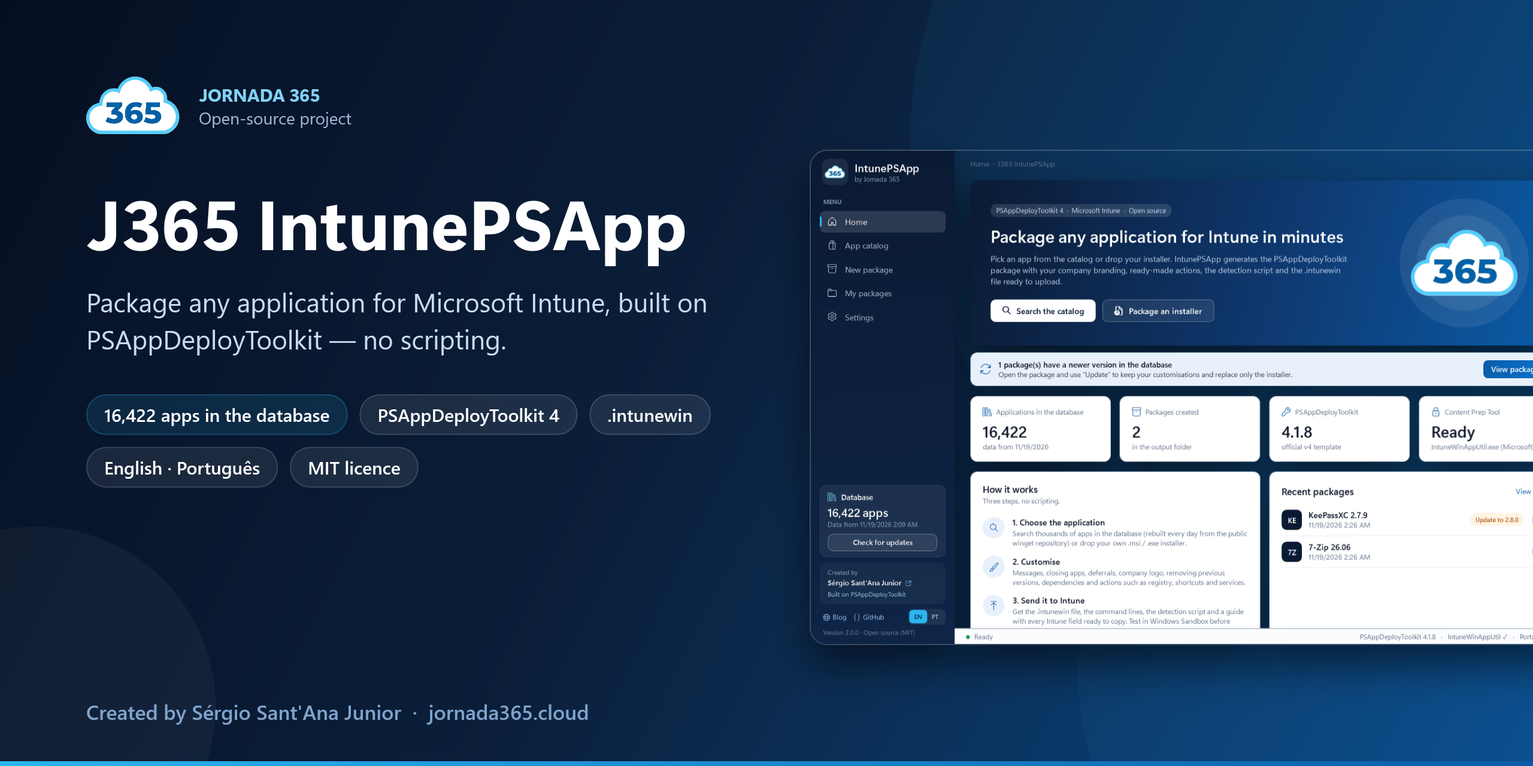
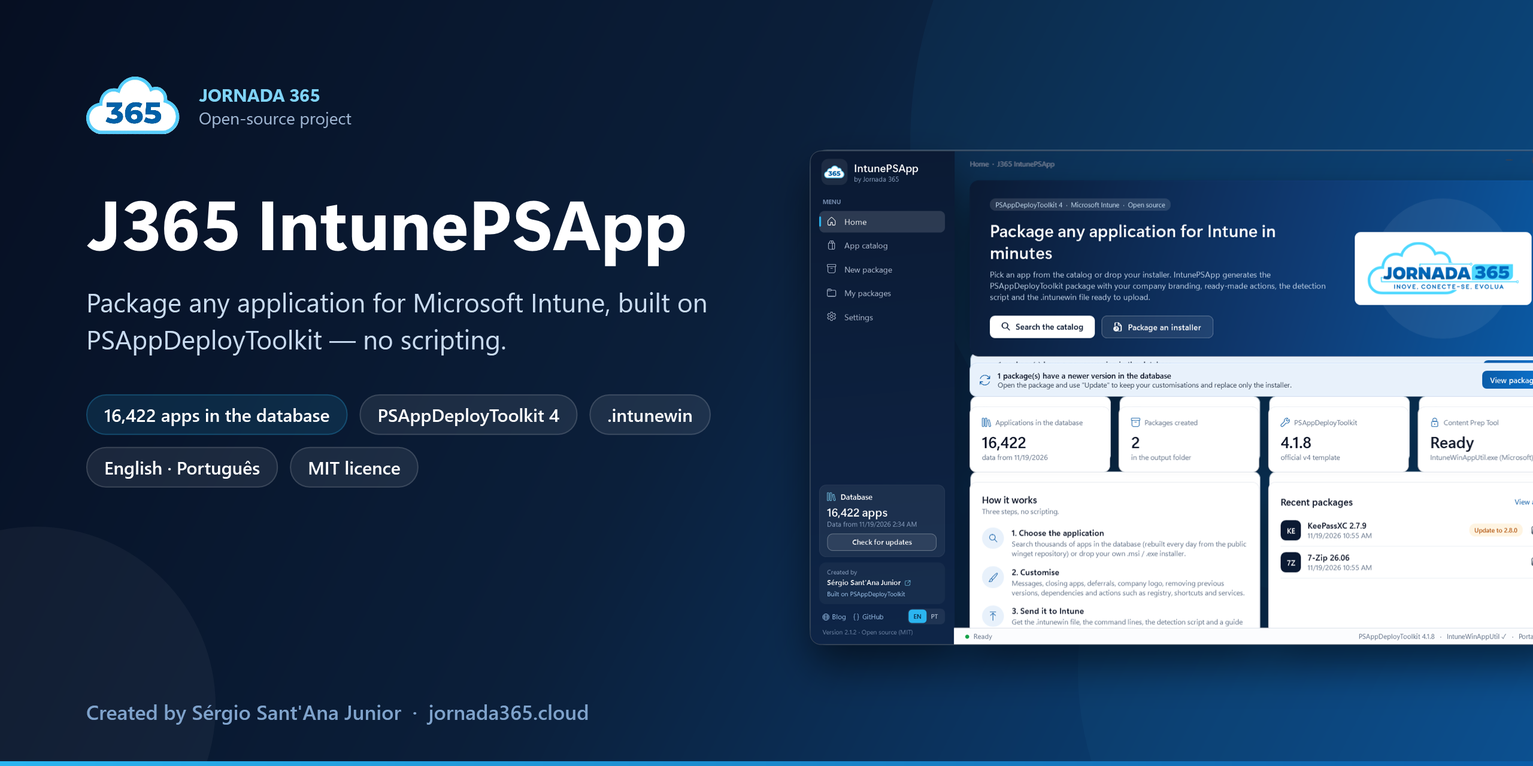
J365 IntunePSApp 2.1.3
- Uninstall step: lists other applications of the database the program name
  also matches (their registered names, or the package name), which would be
  uninstalled and would satisfy detection where installed. Translations of
  the same package are not listed.
- Built-in packager: working copies in the application's temporary folder
  (not next to the package, often a OneDrive folder), cancellation checked
  while zipping and encrypting, zip entry names with "/".
- Downloads: no .part file left after a final failure or a cancellation;
  60-second limit to receive the response headers.
- Remove desktop shortcut / Delete file: -LiteralPath unless the name uses
  * or ?, so names with brackets work.
- README covers show the current application.
- 160 unit tests (were 157).

diff --git a/src/IntunePSApp/Views/EditorView.xaml b/src/IntunePSApp/Views/EditorView.xaml
@@ -397,6 +397,10 @@
                   <Button Grid.Column="1" Style="{StaticResource SecondaryButton}" Content="{l:T Ed_ShowMatches}" Margin="8,0,0,0" Click="ShowInstalled_Click"/>
                 </Grid>
                 <TextBlock Style="{StaticResource Hint}" Text="{l:T Ed_PatternHint}"/>
+                <!-- Other applications of the database the pattern also matches (they would be removed and would satisfy detection) -->
+                <Border x:Name="PatternOthers" Background="{StaticResource WarningSoft}" CornerRadius="8" Padding="12,8" Margin="0,8,0,0" Visibility="Collapsed">
+                  <TextBlock x:Name="PatternOthersText" TextWrapping="Wrap" Foreground="{StaticResource Warning}" FontSize="12.5"/>
+                </Border>
                 <ListView x:Name="InstalledList" Margin="0,12,0,0" MaxHeight="200" Visibility="Collapsed">
                   <ListView.View>
                     <GridView>

diff --git a/src/IntunePSApp/Core/IntuneWinBuilder.cs b/src/IntunePSApp/Core/IntuneWinBuilder.cs
@@ -57,13 +57,15 @@ namespace J365.IntunePSApp.Core
                 finally { try { Directory.Delete(tmpOut, true); } catch { } }
             }
             Log.Info(T("Log_NativeBuilding"));
-            await Task.Run(() => BuildNative(sourceFolder, SetupFile, outputFile), ct);
+            await Task.Run(() => BuildNative(sourceFolder, SetupFile, outputFile, ct), ct);
             return T("Tool_Native");
         }
 
-        public static void BuildNative(string sourceFolder, string setupFile, string outputFile)
+        public static void BuildNative(string sourceFolder, string setupFile, string outputFile, CancellationToken ct = default)
         {
-            string work = Path.Combine(Path.GetDirectoryName(outputFile), "_intunewin_" + Guid.NewGuid().ToString("N"));
+            // The two working copies (zip and encrypted zip) go to the application's temporary folder, not next to the
+            // package: the output folder is often synchronised (OneDrive) and a cancelled build must not leave gigabytes there.
+            string work = Path.Combine(AppPaths.Temp, "_intunewin_" + Guid.NewGuid().ToString("N"));
             Directory.CreateDirectory(work);
             try
             {
@@ -74,11 +76,16 @@ namespace J365.IntunePSApp.Core
                 using (var fs = new FileStream(plainZip, FileMode.CreateNew))
                 using (var zip = new ZipArchive(fs, ZipArchiveMode.Create))
                 {
+                    // Entry names use "/" like Microsoft's tool (the zip format's separator).
                     foreach (var f in Directory.GetFiles(src, "*", SearchOption.AllDirectories))
-                        zip.CreateEntryFromFile(f, f.Substring(src.Length + 1), CompressionLevel.Optimal);
+                    {
+                        ct.ThrowIfCancellationRequested();
+                        zip.CreateEntryFromFile(f, f.Substring(src.Length + 1).Replace('\\', '/'), CompressionLevel.Optimal);
+                    }
                     foreach (var d in Directory.GetDirectories(src, "*", SearchOption.AllDirectories))
-                        if (!Directory.EnumerateFileSystemEntries(d).Any()) zip.CreateEntry(d.Substring(src.Length + 1) + "\\");
+                        if (!Directory.EnumerateFileSystemEntries(d).Any()) zip.CreateEntry(d.Substring(src.Length + 1).Replace('\\', '/') + "/");
                 }
+                ct.ThrowIfCancellationRequested();
 
                 byte[] encKey = RandomNumberGenerator.GetBytes(32), macKey = RandomNumberGenerator.GetBytes(32), iv = RandomNumberGenerator.GetBytes(16);
                 byte[] digest; long plainSize;
@@ -99,6 +106,7 @@ namespace J365.IntunePSApp.Core
                         var obuf = new byte[chunk + 32];
                         while (true)
                         {
+                            ct.ThrowIfCancellationRequested();
                             int n = 0, r;
                             while (n < chunk && (r = fin.Read(buf, n, chunk - n)) > 0) n += r;
                             if (fin.Position < fin.Length)

diff --git a/src/IntunePSApp/Core/ActionCatalog.cs b/src/IntunePSApp/Core/ActionCatalog.cs
@@ -208,6 +208,12 @@ namespace J365.IntunePSApp.Core
         private static string Exp(string s) => $"([Environment]::ExpandEnvironmentVariables({L(s)}))";
         private static string Support(string name) => $"(Join-Path -Path $adtSession.DirSupportFiles -ChildPath {L(name)})";
 
+        /// <summary>
+        /// "-Path" when the text uses * or ? on purpose, otherwise "-LiteralPath": with -Path a name such as
+        /// "App [x64].lnk" is read as a wildcard and matches nothing.
+        /// </summary>
+        private static string PathParameter(string text) => (text ?? "").IndexOfAny(new[] { '*', '?' }) >= 0 ? "-Path" : "-LiteralPath";
+
         private static string Lnk(string name)
         {
             name = (name ?? "").Trim();
@@ -248,7 +254,7 @@ namespace J365.IntunePSApp.Core
                         break;
                     }
                 case "RemoveDesktopShortcut":
-                    body.Add($"Remove-ADTFile -Path (Join-Path -Path ([Environment]::GetFolderPath('CommonDesktopDirectory')) -ChildPath {L(Lnk(a.P("Name")))})");
+                    body.Add($"Remove-ADTFile {PathParameter(a.P("Name"))} (Join-Path -Path ([Environment]::GetFolderPath('CommonDesktopDirectory')) -ChildPath {L(Lnk(a.P("Name")))})");
                     break;
                 case "RemoveStartMenuShortcut":
                     body.Add($"Get-ChildItem -LiteralPath ([Environment]::GetFolderPath('CommonPrograms')) -Filter {L(Lnk(a.P("Name")))} -Recurse -ErrorAction SilentlyContinue | Remove-Item -Force -ErrorAction SilentlyContinue");
@@ -271,7 +277,7 @@ namespace J365.IntunePSApp.Core
                     body.Add($"Copy-ADTFileToUserProfiles -Path {Support(a.P("Source"))} -Destination {L(a.P("Destination"))} -BasePath {L(string.IsNullOrEmpty(a.P("BasePath")) ? "AppData" : a.P("BasePath"))} -Recurse");
                     break;
                 case "DeleteFile":
-                    body.Add($"Remove-ADTFile -Path {Exp(a.P("Path"))}");
+                    body.Add($"Remove-ADTFile {PathParameter(a.P("Path"))} {Exp(a.P("Path"))}");
                     break;
                 case "DeleteFolder":
                     body.Add($"$j365Folder = {Exp(a.P("Path"))}");

diff --git a/src/IntunePSApp/Core/CatalogService.cs b/src/IntunePSApp/Core/CatalogService.cs
@@ -242,6 +242,31 @@ namespace J365.IntunePSApp.Core
             return 6;
         }
 
+        /// <summary>
+        /// Other applications of the database whose name (or the name they register in "Installed apps") the pattern also
+        /// matches: "KeePass*" finds KeePassXC. On a device where one of them is installed it would be uninstalled before
+        /// the installation, and it would satisfy the detection rule. Translations of the same package are not listed.
+        /// </summary>
+        public List<string> OthersMatching(string pattern, string catalogId, int max = 5)
+        {
+            var found = new List<string>();
+            if (!IsLoaded || string.IsNullOrWhiteSpace(pattern) || Regex.Replace(pattern, @"[\*\?\s]", "").Length < 2) return found;
+            var rx = InstallerAnalyzer.WildcardToRegex(pattern.Trim());
+            string family = string.IsNullOrEmpty(catalogId) ? null : catalogId + ".";
+            foreach (var a in Apps)
+            {
+                if (string.Equals(a.Id, catalogId, StringComparison.OrdinalIgnoreCase)) continue;
+                // Mozilla.Firefox.pt-BR is the same product as Mozilla.Firefox.
+                if (family != null && a.Id.StartsWith(family, StringComparison.OrdinalIgnoreCase) && Regex.IsMatch(a.Id.Substring(family.Length), @"^[a-z]{2}(-[A-Za-z]{2,4})?$")) continue;
+                var names = (a.Installers ?? new List<CatalogInstaller>()).SelectMany(i => i.Arp ?? new List<ArpEntry>()).Select(e => e.DisplayName).Where(n => !string.IsNullOrEmpty(n)).ToList();
+                if (names.Count == 0) names.Add(a.Name);
+                if (!names.Any(rx.IsMatch)) continue;
+                if (!found.Contains(a.Name, StringComparer.OrdinalIgnoreCase)) found.Add(a.Name);
+                if (found.Count >= max) break;
+            }
+            return found;
+        }
+
         public List<CatalogApp> FindByName(string name, string publisher, int max = 3)
         {
             var n = Names.CleanAppName(name ?? "").ToLowerInvariant();

diff --git a/src/IntunePSApp/Core/Infrastructure.cs b/src/IntunePSApp/Core/Infrastructure.cs
@@ -268,6 +268,12 @@ namespace J365.IntunePSApp.Core
                     Log.Warn(T("Log_DownloadRetry", attempt, attempts - 1, ex.Message));
                     await Task.Delay(TimeSpan.FromSeconds(2 * attempt), ct);
                 }
+                catch
+                {
+                    // Last attempt failed or the user cancelled: no half-downloaded file is left behind.
+                    try { File.Delete(tmp); } catch { }
+                    throw;
+                }
             }
             if (!string.IsNullOrWhiteSpace(expectedSha256))
             {
@@ -283,7 +289,15 @@ namespace J365.IntunePSApp.Core
 
         private static async Task DownloadOnceAsync(string url, string tmp, IProgress<(long read, long? total)> progress, CancellationToken ct)
         {
-            using var resp = await Client.GetAsync(url, HttpCompletionOption.ResponseHeadersRead, ct);
+            // A server that never answers fails after 60 seconds instead of hanging (the body has its own stall limit below).
+            HttpResponseMessage resp;
+            using (var headers = CancellationTokenSource.CreateLinkedTokenSource(ct))
+            {
+                headers.CancelAfter(TimeSpan.FromSeconds(60));
+                try { resp = await Client.GetAsync(url, HttpCompletionOption.ResponseHeadersRead, headers.Token); }
+                catch (OperationCanceledException) when (!ct.IsCancellationRequested) { throw new TimeoutException(T("Err_DownloadStalled")); }
+            }
+            using var response = resp;
             resp.EnsureSuccessStatusCode();
             long? total = resp.Content.Headers.ContentLength;
             using var src = await resp.Content.ReadAsStreamAsync(ct);

diff --git a/tests/IntunePSApp.Tests/ScriptTests.cs b/tests/IntunePSApp.Tests/ScriptTests.cs
@@ -343,6 +343,16 @@ namespace J365.IntunePSApp.Tests
         }
 
         [Fact]
+        public void File_names_with_brackets_are_literal_unless_a_wildcard_is_intended()
+        {
+            string Code(string type, string key, string value) => string.Join("\n", ActionCatalog.Generate(new PackageAction { Type = type, ContinueOnError = false, Params = { [key] = value } }));
+            Assert.Contains("Remove-ADTFile -LiteralPath", Code("RemoveDesktopShortcut", "Name", "App [x64]"));
+            Assert.Contains("Remove-ADTFile -Path", Code("RemoveDesktopShortcut", "Name", "App*"));
+            Assert.Contains("Remove-ADTFile -LiteralPath ([Environment]::ExpandEnvironmentVariables('%ProgramData%\\App [x64]\\a.lic'))", Code("DeleteFile", "Path", @"%ProgramData%\App [x64]\a.lic"));
+            Assert.Contains("Remove-ADTFile -Path", Code("DeleteFile", "Path", @"%ProgramData%\App\*.tmp"));
+        }
+
+        [Fact]
         public void User_code_is_written_as_typed_and_a_continued_failure_does_not_fail_the_deployment()
         {
             var a = new PackageAction { Type = "RunPowerShell", ContinueOnError = true, Params = { ["Code"] = "$text = @'\nline one   \n  line two\n'@\nWrite-ADTLogEntry -Message $text" } };

diff --git a/tests/IntunePSApp.Tests/PackagingTests.cs b/tests/IntunePSApp.Tests/PackagingTests.cs
@@ -46,6 +46,21 @@ namespace J365.IntunePSApp.Tests
         }
 
         [Fact]
+        public void A_cancelled_native_build_leaves_nothing_behind()
+        {
+            using var tmp = new TempFolder();
+            string src = SampleSource(tmp), output = Path.Combine(tmp.Path, "out", "app.intunewin");
+            Directory.CreateDirectory(Path.GetDirectoryName(output));
+            var before = Directory.GetDirectories(AppPaths.Temp, "_intunewin_*").Length;
+            using var cts = new System.Threading.CancellationTokenSource();
+            cts.Cancel();
+            Assert.ThrowsAny<OperationCanceledException>(() => IntuneWinBuilder.BuildNative(src, IntuneWinBuilder.SetupFile, output, cts.Token));
+            Assert.False(File.Exists(output));
+            Assert.Empty(Directory.GetFileSystemEntries(Path.GetDirectoryName(output)));               // nothing in the output folder
+            Assert.Equal(before, Directory.GetDirectories(AppPaths.Temp, "_intunewin_*").Length);      // working copies removed
+        }
+
+        [Fact]
         public void Validate_detects_a_tampered_package()
         {
             using var tmp = new TempFolder();

diff --git a/src/IntunePSApp/Views/EditorView.xaml.cs b/src/IntunePSApp/Views/EditorView.xaml.cs
@@ -507,8 +507,11 @@ namespace J365.IntunePSApp.Views
         private void UpdateExistingFlow()
         {
             if (ExistingFlow == null) return;
-            if (ChkRemovePrev.IsChecked != true) { ExistingFlow.Text = T("Ed_ExistingFlowOff"); return; }
             string pattern = TxtPattern.Text.Trim();
+            var others = CatalogService.Instance.OthersMatching(pattern, _s?.CatalogId);
+            PatternOthers.Visibility = others.Count > 0 ? Visibility.Visible : Visibility.Collapsed;
+            PatternOthersText.Text = others.Count > 0 ? T("Ed_PatternOthers", pattern, string.Join(", ", others)) : "";
+            if (ChkRemovePrev.IsChecked != true) { ExistingFlow.Text = T("Ed_ExistingFlowOff"); return; }
             ExistingFlow.Text = T("Ed_ExistingFlowOn") + (pattern.Length > 0 ? " " + T("Ed_ExistingFlowName", pattern) : "");
         }
 

diff --git a/tests/IntunePSApp.Tests/CoreTests.cs b/tests/IntunePSApp.Tests/CoreTests.cs
@@ -183,6 +183,15 @@ namespace J365.IntunePSApp.Tests
         }
 
         [Fact]
+        public void Look_alike_applications_of_the_database_are_found_for_a_name_pattern()
+        {
+            // The test database is empty: nothing is reported and nothing breaks.
+            Assert.Empty(CatalogService.Instance.OthersMatching("KeePass*", "DominikReichl.KeePass"));
+            Assert.Empty(CatalogService.Instance.OthersMatching("", null));
+            Assert.Empty(CatalogService.Instance.OthersMatching("*", null)); // too generic to mean anything
+        }
+
+        [Fact]
         public void An_installer_the_target_cannot_run_is_never_picked()
         {
             var armFirst = new CatalogApp { Installers = { new CatalogInstaller { Arch = "arm64", Type = "exe" }, new CatalogInstaller { Arch = "x64", Type = "exe" } } };

diff --git a/README.md b/README.md
@@ -182,10 +182,10 @@ Every release is built by GitHub Actions from the tagged commit and carries chec
 
 ```powershell
 # 1. Checksum: compare with SHA256SUMS.txt of the release
-Get-FileHash .\J365-IntunePSApp-2.1.2-win-x64.zip -Algorithm SHA256
+Get-FileHash .\J365-IntunePSApp-2.1.3-win-x64.zip -Algorithm SHA256
 
 # 2. Provenance: proves the file was built by this repository's workflow (GitHub CLI)
-gh attestation verify .\J365-IntunePSApp-2.1.2-win-x64.zip --repo sesantanajr/J365-IntunePSApp
+gh attestation verify .\J365-IntunePSApp-2.1.3-win-x64.zip --repo sesantanajr/J365-IntunePSApp
 ```
 
 What the application itself verifies: the database installers (SHA256 from the winget manifest), the PSAppDeployToolkit module (Authenticode signature), IntuneWinAppUtil (Microsoft signature, otherwise discarded) and every `.intunewin` it creates (HMAC and SHA256). See [SECURITY.md](SECURITY.md).
@@ -215,7 +215,7 @@ Application logs: `IntunePSApp-Data\logs` next to the executable (portable) or `
 
 ## What was tested (and what was not)
 
-- **Automated:** 157 unit tests run on every push (generated scripts are parsed by Windows PowerShell 5.1, `.intunewin` round trip, both languages, project migration, validations).
+- **Automated:** 160 unit tests run on every push (generated scripts are parsed by Windows PowerShell 5.1, `.intunewin` round trip, both languages, project migration, validations).
 - **End to end, by the author:** packages built from the interface and from the command line in both languages; a generated package executed for real with a test installer (install, repair, uninstall, 22 actions including dependency and `.reg` import); first-run setup on an empty folder; per-user install and uninstall; database generation.
 - **In Windows Sandbox (2.1):** the 7-Zip MSI package was installed by the test script in a real sandbox (exit code 0, detected, 31 s; the same installation took about 150 s before the Smart App Control fix), and run as SYSTEM three times in a row: install on a clean Windows, install again over the existing version (the log shows it being listed and uninstalled first) and uninstall (no longer detected). Not exercised: enabling the Windows feature from the application (it needs a computer without it) and the test of an `.exe` installer.
 - **For 2.1.2:** a package built with the new code was run as SYSTEM in Windows Sandbox (install, install over the existing version, uninstall; an action failing on purpose was logged and the deployment still returned 0; user code with a here-string ran). Icon extraction was checked with two real MSI files (one carrying an `.ico`, one an `.exe`). The publishing script was run end to end, in Windows PowerShell 5.1 and PowerShell 7, against a local stand-in for Entra ID, Microsoft Graph and Azure Storage that verified the uploaded content (MAC, IV, digest), the retries, the update of an existing app, the assignment and the removal of an incomplete app.
@@ -418,10 +418,10 @@ Cada versão é compilada pelo GitHub Actions a partir do commit marcado e traz 
 
 ```powershell
 # 1. Checksum: compare com o SHA256SUMS.txt da versão
-Get-FileHash .\J365-IntunePSApp-2.1.2-win-x64.zip -Algorithm SHA256
+Get-FileHash .\J365-IntunePSApp-2.1.3-win-x64.zip -Algorithm SHA256
 
 # 2. Procedência: prova que o arquivo foi compilado pelo workflow deste repositório (GitHub CLI)
-gh attestation verify .\J365-IntunePSApp-2.1.2-win-x64.zip --repo sesantanajr/J365-IntunePSApp
+gh attestation verify .\J365-IntunePSApp-2.1.3-win-x64.zip --repo sesantanajr/J365-IntunePSApp
 ```
 
 O que o próprio aplicativo verifica: os instaladores do banco de dados (SHA256 do manifesto do winget), o módulo do PSAppDeployToolkit (assinatura Authenticode), o IntuneWinAppUtil (assinatura da Microsoft, senão é descartado) e cada `.intunewin` criado (HMAC e SHA256). Veja [SECURITY.md](SECURITY.md).
@@ -451,7 +451,7 @@ Logs do aplicativo: `IntunePSApp-Data\logs` ao lado do executável (portátil) o
 
 ## O que foi testado (e o que não foi)
 
-- **Automatizado:** 157 testes unitários rodam a cada push (os scripts gerados são analisados pelo Windows PowerShell 5.1, ida e volta do `.intunewin`, os dois idiomas, migração de projetos, validações).
+- **Automatizado:** 160 testes unitários rodam a cada push (os scripts gerados são analisados pelo Windows PowerShell 5.1, ida e volta do `.intunewin`, os dois idiomas, migração de projetos, validações).
 - **De ponta a ponta, pelo autor:** pacotes gerados pela interface e pela linha de comando nos dois idiomas; um pacote gerado executado de verdade com um instalador de teste (instalação, reparo, desinstalação, 22 ações incluindo dependência e importação de `.reg`); preparação da primeira execução em uma pasta vazia; instalação e desinstalação por usuário; geração do banco de dados.
 - **No Windows Sandbox (2.1):** o pacote MSI do 7-Zip foi instalado pelo script de teste em um sandbox real (código de saída 0, detectado, 31 s; a mesma instalação levava cerca de 150 s antes da correção do Smart App Control) e executado como SYSTEM três vezes seguidas: instalação em um Windows limpo, instalação por cima da versão existente (o log mostra ela sendo listada e desinstalada antes) e desinstalação (não é mais detectado). Não exercitado: a ativação do recurso do Windows pelo aplicativo (exige um computador sem ele) e o teste de um instalador `.exe`.
 - **Para a 2.1.2:** um pacote gerado com o código novo foi executado como SYSTEM no Windows Sandbox (instalação, instalação por cima da versão existente, desinstalação; uma ação que falha de propósito foi registrada e a implantação ainda retornou 0; código do usuário com here-string rodou). A extração de ícone foi conferida com dois arquivos MSI reais (um com `.ico`, outro com `.exe`). O script de publicação foi executado de ponta a ponta, no Windows PowerShell 5.1 e no PowerShell 7, contra um substituto local do Entra ID, do Microsoft Graph e do Azure Storage que conferiu o conteúdo enviado (MAC, IV, hash), as repetições, a atualização de um app existente, a atribuição e a remoção de um app incompleto.

diff --git a/.github/RELEASE_NOTES.md b/.github/RELEASE_NOTES.md
@@ -1,8 +1,13 @@
-## J365 IntunePSApp 2.1.2
+## J365 IntunePSApp 2.1.3
 
 Package any Windows application for Microsoft Intune in minutes, with no scripting. Built on [PSAppDeployToolkit](https://psappdeploytoolkit.com). Created by [Sérgio Sant'Ana Junior](https://www.linkedin.com/in/sergiosantanacloud/) - [Jornada 365](https://jornada365.cloud).
 
-### Highlights
+### New in 2.1.3
+
+- The Uninstall step shows other applications of the database the program name also matches ("7-Zip*" also matches 7-Zip ZS), which would be uninstalled and would satisfy detection where installed.
+- The built-in packager no longer leaves working copies next to the package (OneDrive folders) and stops at once when cancelled; downloads no longer leave `.part` files or wait forever for a silent server; file names with brackets work in the shortcut and file actions.
+
+### Highlights of 2.1.2
 
 - **Publish to Intune, rewritten.** The script talks to Microsoft Graph directly: no PowerShell module to install. It detects an app with the same name (ask, stop, update or create another), can assign the new app, deletes an incomplete app when something fails and reports the outcome back to the application, with an *Open in Intune* link. The community module used before failed on Windows set to day-first dates (pt-BR, en-GB...) and reported a failed sign-in as success. Still labelled **preview**: tested end to end against a local stand-in for Entra ID, Graph and Azure Storage, not yet against a real tenant.
 - **Every package has an application icon** for Intune and the Company Portal, with nothing to download: the icon of the installer (now also from `.msi` files), a file you choose, or a tile with the initials.
@@ -26,9 +31,13 @@ The executable is not code-signed: Windows SmartScreen may ask for confirmation 
 
 ---
 
-## J365 IntunePSApp 2.1.2 (Português)
+## J365 IntunePSApp 2.1.3 (Português)
 
 Empacote qualquer aplicativo Windows para o Microsoft Intune em minutos, sem escrever scripts. Baseado no [PSAppDeployToolkit](https://psappdeploytoolkit.com). Criado por [Sérgio Sant'Ana Junior](https://www.linkedin.com/in/sergiosantanacloud/) - [Jornada 365](https://jornada365.cloud).
+
+**Novo na 2.1.3:** o passo Desinstalação mostra outros aplicativos do banco de dados que o nome do programa também encontra ("7-Zip*" também pega o 7-Zip ZS), que seriam desinstalados e contariam para a detecção onde estiverem instalados. O empacotador interno não deixa mais cópias de trabalho ao lado do pacote (pastas do OneDrive) e para na hora quando cancelado; downloads não deixam mais arquivos `.part` nem esperam para sempre por um servidor mudo; nomes de arquivo com colchetes funcionam nas ações de atalho e de arquivo.
+
+**Destaques da 2.1.2:**
 
 - **Publicação no Intune reescrita.** O script fala direto com o Microsoft Graph: nenhum módulo do PowerShell para instalar. Detecta um app com o mesmo nome (perguntar, parar, atualizar ou criar outro), pode atribuir o app novo, apaga o app incompleto quando algo falha e devolve o resultado ao aplicativo, com o link *Abrir no Intune*. O módulo da comunidade usado antes falhava em Windows com data no formato dia/mês (pt-BR) e mostrava login falho como sucesso. Continua marcado como **prévia**: testado de ponta a ponta contra um substituto local do Entra ID, do Graph e do Azure Storage, ainda não contra um locatário real.
 - **Todo pacote tem ícone do aplicativo** para o Intune e o Portal da Empresa, sem baixar nada: o ícone do instalador (agora também de arquivos `.msi`), um arquivo que você escolher ou um ícone com as iniciais.

diff --git a/CHANGELOG.md b/CHANGELOG.md
@@ -2,6 +2,22 @@
 
 All notable changes to J365 IntunePSApp. Versions follow [Semantic Versioning](https://semver.org).
 
+## 2.1.3 - 2026-11-19
+
+### Added
+
+- **Look-alike applications.** The Uninstall step shows which other applications of the database the program name also matches ("7-Zip*" also matches 7-Zip ZS; "KeePass*" would match KeePassXC). Where one of them is installed it would be uninstalled before the installation and would count for the detection rule.
+
+### Fixed
+
+- The built-in packager keeps its two working copies in the application's temporary folder instead of next to the package (often a synchronised OneDrive folder), stops as soon as the build is cancelled, and writes zip entries with "/" like Microsoft's tool.
+- A download that fails for good, or is cancelled, no longer leaves a `.part` file; a server that never answers fails after 60 seconds instead of waiting forever.
+- "Remove desktop shortcut" and "Delete file" treat names with brackets (`App [x64].lnk`) literally, unless the name uses `*` or `?` on purpose.
+
+### Changed
+
+- README cover images show the current application.
+
 ## 2.1.2 - 2026-11-19
 
 ### Publish to Intune, rewritten
